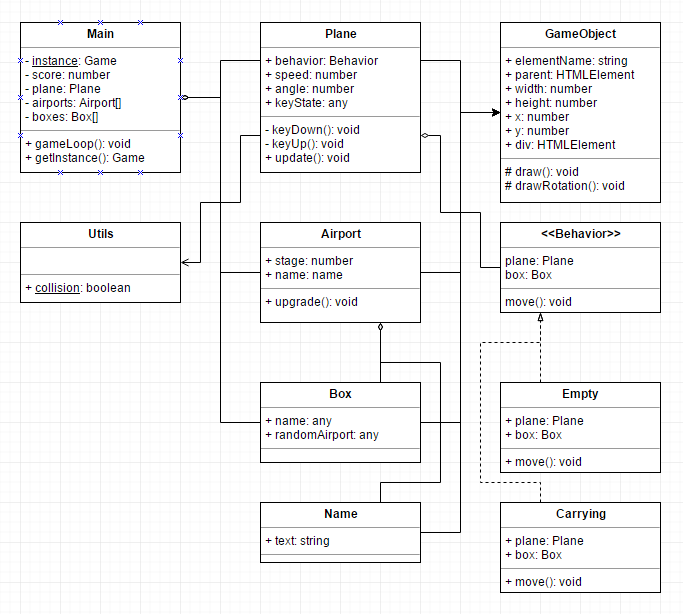
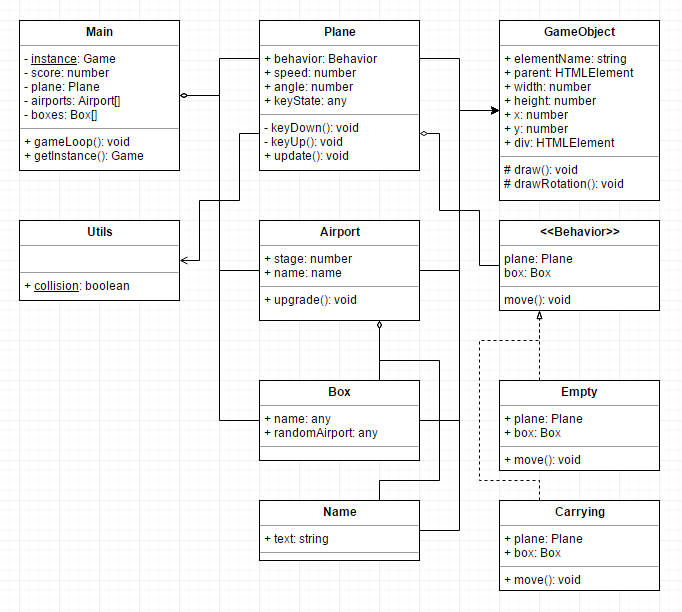
Fixed diagram and readme

diff --git a/README.md b/README.md
@@ -1,9 +1,9 @@
 # planeGame
 
 ## Instructies
-Typescript game door middel van een singleton, een static utils class, een interface en strategy patterns
-Assesser kan een fork maken en deze pullen om lokaal de ts files te compilen naar js
-Vervolgens zullen deze in de docs folder te vinden zijn om te runnen in de browser
+- Typescript game door middel van een singleton, een static utils class, een interface en strategy patterns
+- Assesser kan een fork maken en deze pullen om lokaal de ts files te compilen naar js
+- Vervolgens zullen deze in de docs folder te vinden zijn om te runnen in de browser
 
 
 ## Klassendiagram
